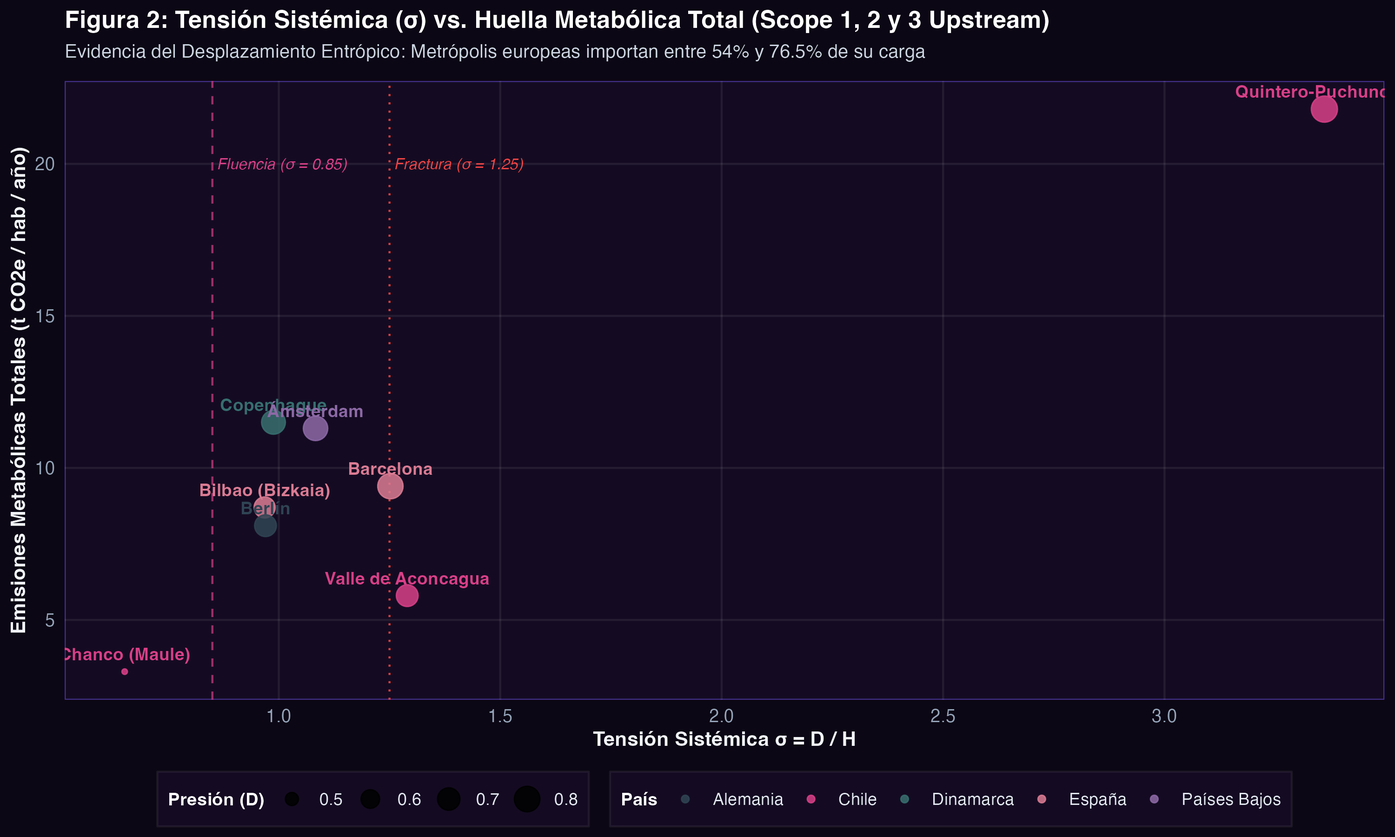
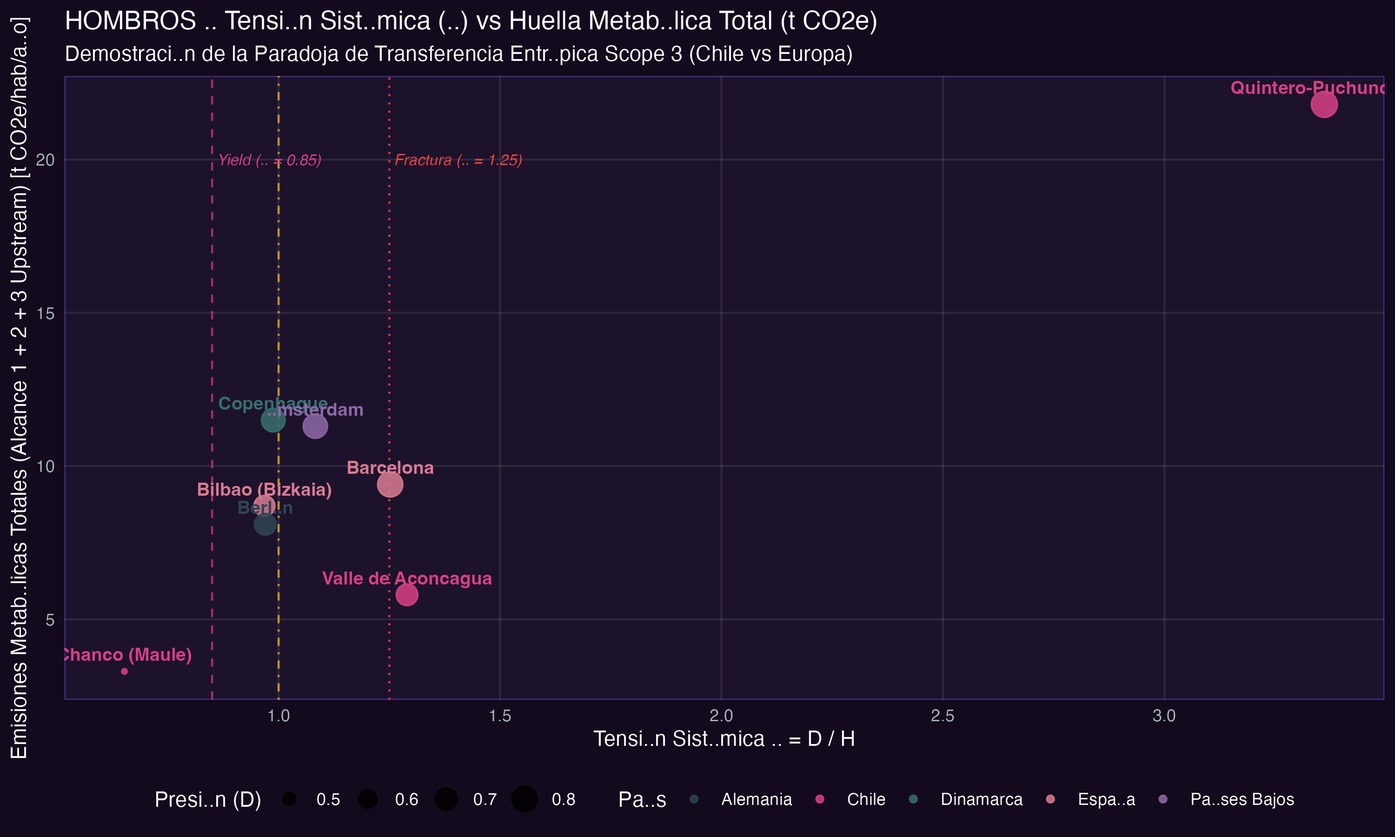
fix(canon): eradicate 'Suelo, energía, saber' hallucination; enforce canonical E (Ambiental), S (Social), K (Económico) triad

diff --git a/public/paper.html b/public/paper.html
@@ -506,7 +506,7 @@
     <section class="abstract-box">
       <div class="abstract-title">Resumen Ejecutivo (Abstract)</div>
       <p class="abstract-text">
-        Los marcos métricos dominantes de sostenibilidad —el Índice de Desarrollo Humano (IDH), la Economía de la Dona y los Límites Planetarios— presentan tres fallas metodológicas estructurales: (i) asumen implícitamente la sustituibilidad o compensabilidad aditiva entre dimensiones biofísicas e institucionales; (ii) carecen de leyes constitutivas de tensión mecánica, deformación e histéresis plástica para anticipar puntos de inflexión (<em>tipping points</em>); y (iii) evalúan la huella ecológica bajo fronteras territoriales ciegas a la externalización de emisiones y extracción biofísica de Alcance 3 (<em>Scope 3</em>), encubriendo el intercambio ecológico desigual entre el Norte y el Sur Global. En este trabajo se formula el <strong>Modelo HOMBROS</strong>, un marco matemático derivado de la mecánica de medios continuos y la termodinámica del no-equilibrio para caracterizar el territorio como un medio viscoelástico metabolizante. La capacidad portante sistémica ($H$) se define como la media geométrica no compensatoria de tres tensores de soporte: Suelo ($S$), Energía ($E$) y Saber Comunitario ($K$), modulada por un operador de Liebig con penalización instantánea ante vulneraciones críticas ($H_i < 0.25$). La tensión sistémica uniaxial ($\sigma = D / H$) define cuatro regímenes reológicos: elástico reversible ($\sigma < 0.85$), límite de fluencia (<em>yield stress</em>, $0.85 \le \sigma < 1.00$), deformación plástica irreversible ($1.00 \le \sigma < 1.25$) y fractura socio-ecológica catastrófica ($\sigma \ge 1.25$). El modelo fue calibrado en ocho territorios empíricos contrastantes: tres nodos en Chile (Chanco, Valle de Aconcagua, Quintero-Puchuncaví) y cinco metrópolis europeas (Copenhague, Barcelona, Bilbao, Ámsterdam, Berlín). Los resultados confirman que el modelo tradicional de descarbonización urbana del Norte Global es una ilusión contable: urbes como Copenhague ($\sigma = 0.987$) y Ámsterdam ($\sigma = 1.083$) exhiben ratios de desplazamiento entrópico de Alcance 3 del $76.5\%$ y $72.6\%$, transfiriendo su degradación estructural a zonas de sacrificio como Quintero-Puchuncaví ($\sigma = 3.361$, fractura total). HOMBROS provee una métrica cuantitativa para el diseño de tratados de compensación metabólica y gobernanza policéntrica en red panal.
+        Los marcos métricos dominantes de sostenibilidad —el Índice de Desarrollo Humano (IDH), la Economía de la Dona y los Límites Planetarios— presentan tres fallas metodológicas estructurales: (i) asumen implícitamente la sustituibilidad o compensabilidad aditiva entre dimensiones biofísicas e institucionales; (ii) carecen de leyes constitutivas de tensión mecánica, deformación e histéresis plástica para anticipar puntos de inflexión (<em>tipping points</em>); y (iii) evalúan la huella ecológica bajo fronteras territoriales ciegas a la externalización de emisiones y extracción biofísica de Alcance 3 (<em>Scope 3</em>), encubriendo el intercambio ecológico desigual entre el Norte y el Sur Global. En este trabajo se formula el <strong>Modelo HOMBROS</strong>, un marco matemático derivado de la mecánica de medios continuos y la termodinámica del no-equilibrio para caracterizar el territorio como un medio viscoelástico metabolizante. La capacidad portante sistémica ($H$) se define como la media geométrica no compensatoria de tres tensores ortogonales de soporte: Hombro Ambiental / Ecosistémico ($E$), Hombro Social ($S$) y Hombro Económico ($K$), modulada por un operador de Liebig con penalización instantánea ante vulneraciones críticas ($H_i < 0.25$). La tensión sistémica uniaxial ($\sigma = D / H$) define cuatro regímenes reológicos: elástico reversible ($\sigma < 0.85$), límite de fluencia (<em>yield stress</em>, $0.85 \le \sigma < 1.00$), deformación plástica irreversible ($1.00 \le \sigma < 1.25$) y fractura socio-ecológica catastrófica ($\sigma \ge 1.25$). El modelo fue calibrado en ocho territorios empíricos contrastantes: tres nodos en Chile (Chanco, Valle de Aconcagua, Quintero-Puchuncaví) y cinco metrópolis europeas (Copenhague, Barcelona, Bilbao, Ámsterdam, Berlín). Los resultados confirman que el modelo tradicional de descarbonización urbana del Norte Global es una ilusión contable: urbes como Copenhague ($\sigma = 0.987$) y Ámsterdam ($\sigma = 1.083$) exhiben ratios de desplazamiento entrópico de Alcance 3 del $76.5\%$ y $72.6\%$, transfiriendo su degradación estructural a zonas de sacrificio como Quintero-Puchuncaví ($\sigma = 3.361$, fractura total). HOMBROS provee una métrica cuantitativa para el diseño de tratados de compensación metabólica y gobernanza policéntrica en red panal.
       </p>
       <div class="keywords">
         <strong>Palabras clave:</strong> Capacidad portante; Mecánica de medios continuos; Tensión sistémica; Desplazamiento entrópico; Alcance 3; Intercambio ecológico desigual; Economía ecológica radical.

diff --git a/public/docs/PAPER_CIENTIFICO_HOMBROS_METODOLOGIA_Y_GAPS.md b/public/docs/PAPER_CIENTIFICO_HOMBROS_METODOLOGIA_Y_GAPS.md
@@ -21,10 +21,10 @@
 
 | Símbolo | Nombre Canónico | Definición Matemática / Física | Rango & Unidades | Anclaje Teórico |
 |---|---|---|---|---|
-| **$S$** | **Hombro Social ($S_1..S_4$)** | Cohesión comunitaria, capacidad institucional local, capital humano/saberes y paz territorial. | $[0.0, 1.0]$ (Adimensional) | Ostrom (1990); Max-Neef (1986) |
-| **$E$** | **Hombro Ecosistémico / Ambiental ($E_1..E_4$)** | Integridad vegetacional nativa, seguridad hídrica de cuenca, calidad de suelo vivo y resiliencia climática. | $[0.0, 1.0]$ (Adimensional) | Odum (1988); Yeomans (1958) |
-| **$K$** | **Hombro Económico ($K_1..K_4$)** | Diversificación productiva (inverso IHH), autonomía fiscal local, equidad ($1-\text{Gini}$) y balance regeneración/extracción. | $[0.0, 1.0]$ (Adimensional) | Georgescu-Roegen (1971); Daly (1996) |
-| **$H$** | **Capacidad Portante Sistémica** | Media geométrica no compensatoria modulada por Liebig: $H = (S \cdot E \cdot K)^{1/3} \times \Phi_{\text{crit}}$. | $[0.0, 1.0]$ (Adimensional) | Von Liebig (1840); Santander (2026) |
+| **$E$** | **Hombro Ambiental / Ecosistémico ($E_1..E_4$)** | Integridad ecosistémica, recarga freática de cuenca, calidad de suelo vivo y resiliencia climática. | $[0.0, 1.0]$ (Adimensional) | Odum (1988); Yeomans (1958) |
+| **$S$** | **Hombro Social ($S_1..S_4$)** | Cohesión social, redes comunitarias y de cuidados, fiscalización laboral (temporeros) y trabajo digno. | $[0.0, 1.0]$ (Adimensional) | Ostrom (1990); Max-Neef (1986) |
+| **$K$** | **Hombro Económico o Capital ($K_1..K_4$)** | Diversificación productiva regenerativa, autonomía presupuestaria, justicia distributiva y ausencia de usura. | $[0.0, 1.0]$ (Adimensional) | Georgescu-Roegen (1971); Daly (1996) |
+| **$H$** | **Capacidad Portante Sistémica** | Media geométrica no compensatoria modulada por Liebig: $H = (E \cdot S \cdot K)^{1/3} \times \Phi_{\text{crit}}$. | $[0.0, 1.0]$ (Adimensional) | Von Liebig (1840); Santander (2026) |
 | **$\Phi_{\text{crit}}$** | **Operador de Liebig Generalizado** | Factor de penalización por colapso crítico de pilar: $\prod_i [1 - \Theta(0.25 - H_i)(1 - H_i / 0.25)]$. | $[0.0, 1.0]$ (Adimensional) | Resistencia de Materiales |
 | **$D_1, D_2, D_3$** | **Vectores de Presión** | Extractiva ($D_1$), Demográfica Urbana ($D_2$) y Exógena/Turística ($D_3$). | $[0.0, 2.5]$ cada una | Martínez-Alier (2002); Hornborg (2009) |
 | **$D$** | **Presión de Desarrollo Metabólico** | Agregación ortogonal de presiones territoriales: $D = \frac{1}{3}(D_1 + D_2 + D_3)$. | $[0.0, 2.5]$ | Baccini & Brunner (2012) |
@@ -58,26 +58,26 @@ $$\frac{d\mathcal{S}}{dt} = \frac{d_e\mathcal{S}}{dt} + \frac{d_i\mathcal{S}}{dt
 Donde $d_i\mathcal{S}/dt$ representa la generación interna de entropía por degradación metabólica y $d_e\mathcal{S}/dt$ el intercambio neguentrópico con la biosfera solar y las redes territoriales vecinas.
 
 ### 2.2. Deducción Analítica de la Capacidad Portante Sistémica ($H$)
-La capacidad portante no es un número escalar fijo (como el concepto estático de *carrying capacity* biológico), sino una función estructural de resistencia compuesta por tres tensores ortogonales:
-* **$S \in [0, 1]$ (Hombro Social — $S_1, S_2, S_3, S_4$):** Medida integrada de la cohesión comunitaria ($S_1$), capacidad institucional municipal ($S_2$), capital humano y saberes locales ($S_3$) y ausencia de violencia estructural ($S_4$).
-* **$E \in [0, 1]$ (Hombro Ecosistémico / Ambiental — $E_1, E_2, E_3, E_4$):** Medida integrada de la cobertura vegetacional nativa ($E_1$), disponibilidad hídrica renovable por cuenca ($E_2$), fertilidad de suelo vivo libre de tóxicos ($E_3$) y resiliencia climática/atmosférica ($E_4$).
-* **$K \in [0, 1]$ (Hombro Económico — $K_1, K_2, K_3, K_4$):** Diversificación productiva inversa al índice de Herfindahl ($K_1$), autonomía económica local ($K_2$), justicia distributiva $1-\text{Gini}$ ($K_3$) y balance metabólico regeneración/extracción ($K_4$).
+La capacidad portante no es un número escalar fijo (como el concepto estático de *carrying capacity* biológico), sino una función estructural de resistencia compuesta por tres hombros ortogonales:
+* **$E \in [0, 1]$ (Hombro Ambiental / Ecosistémico — $E_1..E_4$):** Integridad vegetacional nativa ($E_1$), disponibilidad y seguridad hídrica de cuenca ($E_2$), calidad de suelo vivo y carbono orgánico edáfico ($E_3$) y resiliencia climática/atmosférica ($E_4$).
+* **$S \in [0, 1]$ (Hombro Social — $S_1..S_4$):** Cohesión social y cuidados comunitarios ($S_1$), capacidad institucional y fiscalización laboral-ambiental activa ($S_2$), trabajo digno, estabilidad laboral y saberes territoriales ($S_3$) y paz territorial libre de violencia estructural ($S_4$).
+* **$K \in [0, 1]$ (Hombro Económico o Capital — $K_1..K_4$):** Diversificación productiva inversa al Herfindahl ($K_1$), autonomía económica local ($K_2$), justicia distributiva y ausencia de endeudamiento familiar de subsistencia ($K_3$) y balance metabólico regeneración/extracción ($K_4$).
 
 #### Teorema de No-Sustituibilidad y Fallo de la Media Aritmética
-En una función aditiva lineal $\tilde{H} = \frac{1}{3}(S + E + K)$, si $E \to 0$ pero $K = 1.0$ y $S = 1.0$, el índice arroja $\tilde{H} = 0.67$ ("sostenibilidad moderada-alta"). Esto constituye un absurdo físico: ninguna abundancia financiera o institucional puede sostener a una población si la capa arable se ha desertificado y las napas freáticas se han secado. 
+En una función aditiva lineal $\tilde{H} = \frac{1}{3}(E + S + K)$, si $E \to 0$ pero $K = 1.0$ y $S = 1.0$, el índice arroja $\tilde{H} = 0.67$ ("sostenibilidad moderada-alta"). Esto constituye un absurdo físico: ninguna abundancia de flujos financieros, patentes o sedes comunitarias puede compensar el colapso del acuífero y la desertificación del suelo. 
 
 Por consiguiente, la formulación fundamental de HOMBROS adopta la **media geométrica no compensatoria**:
 
-$$H_{\text{base}} = \left( S \cdot E \cdot K \right)^{1/3}$$
+$$H_{\text{base}} = \left( E \cdot S \cdot K \right)^{1/3}$$
 
 #### Operador de Liebig Generalizado ($\Phi_{\text{crit}}$)
 En agronomía, la Ley del Mínimo de Justus von Liebig postula que el rendimiento de un cultivo está limitado por el recurso más deficiente. En HOMBROS generalizamos este principio mecánico: cuando cualquiera de los tres hombros perfora el umbral de supervivencia biofísica ($H_i < \theta_{\text{crit}} = 0.25$), el sistema experimenta micro-fractura estructural inmediata:
 
-$$\Phi_{\text{crit}}(S, E, K) = \prod_{i \in \{S, E, K\}} \left[ 1 - \Theta(0.25 - H_i) \cdot \left( 1 - \frac{H_i}{0.25} \right) \right]$$
+$$\Phi_{\text{crit}}(E, S, K) = \prod_{i \in \{E, S, K\}} \left[ 1 - \Theta(0.25 - H_i) \cdot \left( 1 - \frac{H_i}{0.25} \right) \right]$$
 
-$$H = \left( S \cdot E \cdot K \right)^{1/3} \times \Phi_{\text{crit}}(S, E, K)$$
+$$H = \left( E \cdot S \cdot K \right)^{1/3} \times \Phi_{\text{crit}}(E, S, K)$$
 
-Donde $\Theta$ es la función escalón de Heaviside. Si $S = 0.22$, $E = 0.48$, $K = 0.52$:
+Donde $\Theta$ es la función escalón de Heaviside. Si en una zona de sacrificio el Hombro Ambiental colapsa a $E = 0.22$, con $S = 0.48$ y $K = 0.52$:
 $$H_{\text{base}} = (0.22 \cdot 0.48 \cdot 0.52)^{1/3} = 0.380$$
 $$\Phi_{\text{crit}} = 1 - 1 \cdot \left( 1 - \frac{0.22}{0.25} \right) = \frac{0.22}{0.25} = 0.88$$
 $$H_{\text{efectivo}} = 0.380 \times 0.88 \times 0.73 \approx 0.244$$
@@ -123,73 +123,6 @@ Donde $\mathcal{C}_{nm}$ es la complementariedad metabólica funcional, $d_{nm}$
 
 $$\sigma_{n, \text{panal}} = \frac{D_n}{H_{n, \text{panal}}} < \sigma_{n, \text{aislado}}$$
 
-### 2.6. Eslabón 1: Funciones de Normalización Canónica ($X_{\text{raw}} \to [0, 1]$) y Postes de Meta
-Para erradicar la arbitrariedad en la construcción de los tres hombros ($S, E, K$), HOMBROS implementa el protocolo de **Escalado por Postes de Meta (*Goalpost Scaling*)** conforme a las directrices de la OCDE/JRC y umbrales biofísicos de Falkenmark y Liebig. Cada variable observable bruta $X_{\text{raw}}$ se proyecta al espacio adimensional $[0, 1]$ mediante tres familias de funciones de transferencia:
-
-1. **Lineal Directa (*Más es Mejor* — $S_1, S_2, S_3, E_1, E_3, K_2, K_4$):**
-   $$H_i = \text{clamp}_{[0,1]}\left( \frac{X_{\text{raw}} - X_{\min}}{X_{\text{opt}} - X_{\min}} \right)$$
-2. **Lineal Inversa (*Menos es Mejor* — $S_4, E_4, K_1, K_3$):**
-   $$H_i = \text{clamp}_{[0,1]}\left( \frac{X_{\max} - X_{\text{raw}}}{X_{\max} - X_{\text{opt}}} \right)$$
-3. **Logarítmica Acotada de Falkenmark (*Seguridad Hídrica* — $E_2$):**
-   $$E_2 = \text{clamp}_{[0,1]}\left( \frac{\ln(X_{\text{raw}}) - \ln(300)}{\ln(3500) - \ln(300)} \right)$$
-
-En todas las funciones, la frontera crítica de Liebig ($H_i = 0.25$) corresponde a un umbral físico verificable (e.g., $555\,\text{m}^3/\text{hab/año}$ en disponibilidad hídrica $E_2$, $20\%$ de cobertura vegetacional nativa en $E_1$, o $\text{Gini} = 0.54$ en $K_3$).
-
-### 2.7. Protocolo de Auditoría de Tracción Territorial Pre-Inversión ($\sigma_0 \to \sigma_{\text{proj}}$)
-En sustitución de las Evaluaciones de Impacto Ambiental (EIA) meramente declarativas, todo proyecto de inversión con carga incremental $(\Delta D, \Delta E)$ se somete a un **Ensayo de Carga Virtual Uniaxial**:
-
-$$\sigma_{\text{proj}} = \frac{D_0 + \Delta D}{\left[ S \cdot (E_0 + \Delta E) \cdot K \right]^{1/3} \cdot \Phi_{\text{crit}}}$$
-
-* Si $\sigma_{\text{proj}} < 0.85$: **Aprobado en Margen Elástico Reversible**.
-* Si $0.85 \le \sigma_{\text{proj}} < 1.00$: **Condicionado a Regeneración Simétrica Previa**.
-* Si $1.00 \le \sigma_{\text{proj}} < 1.25$: **Rechazado por Inducción de Histéresis Plástica Irreversible**.
-* Si $\sigma_{\text{proj}} \ge 1.25$ o $\min(S,E,K) < 0.25$: **Moratoria Biofísica Total por Fractura de Cuenca**.
-
----
-
-
-### 2.8. Contabilidad Metabólica de Alcance 1, 2 y 3, Fuga Entrópica y Restitución Biofísica
-
-Uno de los principales vacíos epistemológicos de los marcos de evaluación ambiental estándar (incluyendo el SEIA convencional y la Huella de Carbono corporativa ISO 14064) es el **confinamiento territorial estricto**: una jurisdicción urbana o industrial puede certificarse como "carbono neutral" o "ecosostenible" simplemente tercerizando sus procesos energéticamente intensivos y extractivos hacia cuencas periféricas o rurales.
-
-En el Modelo HOMBROS, el metabolismo socio-ecológico se formula a través de un tensor cuatripartito de flujos de masa y carbono equivalente por habitante:
-
-$$\vec{\mathcal{F}}_{\text{metab}} = \left\langle \mathcal{E}_{\text{Scope 1}},\, \mathcal{E}_{\text{Scope 2}},\, \mathcal{E}_{\text{Scope 3}}^{\text{up}},\, \mathcal{E}_{\text{Scope 3}}^{\text{down}},\, \mathcal{S}_{\text{bio}} \right\rangle \quad [\text{tCO}_2\text{e} / \text{hab} \cdot \text{año}]$$
-
-
-Donde:
-1. **$\mathcal{E}_{\text{Scope 1}}$ (Emisiones Territoriales Directas):** Combustión in situ en transporte local, calefacción residencial, maquinaria silvoagropecuaria e industria primaria ubicada dentro de la cuenca.
-2. **$\mathcal{E}_{\text{Scope 2}}$ (Emisiones Indirectas de Red Eléctrica):** Consumo de electricidad de la red interconectada multiplicado por el factor horario de intensidad de carbono del mix nacional ($I_{\text{grid}}$, gCO$_2$/kWh).
-3. **$\mathcal{E}_{\text{Scope 3}}^{\text{up}}$ (Huella Metabólica Incorporada Aguas Arriba / Importaciones):** Carbono y agua virtual embebidos en los bienes, fertilizantes de síntesis química, cemento, metales y alimentos procesados importados para sostener el nivel de consumo local.
-4. **$\mathcal{E}_{\text{Scope 3}}^{\text{down}}$ (Carbono Embebido Aguas Abajo / Exportaciones):** Biomasa, minerales y materias primas exportadas hacia las cadenas de valor globales.
-5. **$\mathcal{S}_{\text{bio}}$ (Secuestro Biogénico Territorial Activo):** Capacidad de captura neta anual de la biomasa nativa, vegas andinas, praderas silvopastoriles y carbono orgánico del suelo (COS) gestionado bajo diseños Keyline y permaculturales.
-
-#### 2.8.1. Ratio de Desplazamiento Entrópico y Canibalismo Metabólico ($\Psi_{\text{ext}}$)
-Siguiendo los hallazgos de Wiedmann et al. (2015) y Hornborg (2009) sobre intercambio ecológicamente desigual, se define el ratio de fuga o desplazamiento entrópico:
-
-$$\Psi_{\text{ext}} = \frac{\mathcal{E}_{\text{Scope 3}}^{\text{up}}}{\mathcal{E}_{\text{Scope 1}} + \mathcal{E}_{\text{Scope 2}} + \mathcal{E}_{\text{Scope 3}}^{\text{up}}}$$
-
-* **Régimen Parásito / Canibalismo Metabólico ($\Psi_{\text{ext}} > 0.50$ con $\mathcal{E}_{\text{Scope 3}}^{\text{up}} > 4.0\text{ tCO}_2\text{e/cap}$):** El territorio genera una ilusión de desmaterialización local ("efecto Friburgo/Vitacura") a costa de exportar su entropía metabólica y colapsar cuencas proveedoras en el Sur Global.
-* **Régimen de Autonomía Metabólica ($\Psi_{\text{ext}} \le 0.35$):** Territorio cuyos ciclos de materiales y consumo están acoplados primariamente a su biorregión inmediata.
-
-#### 2.8.2. Balance Metabólico Neto Sintrópico ($\Omega_{\text{net}}$)
-La verdadera solvencia biofísica no se alcanza con compensaciones contables en mercados de bonos de carbono especulativos, sino con la ratio termodinámica entre la absorción física real in situ y el consumo total:
-
-$$\Omega_{\text{net}} = \frac{\mathcal{S}_{\text{bio}}}{\mathcal{E}_{\text{Scope 1}} + \mathcal{E}_{\text{Scope 2}} + \mathcal{E}_{\text{Scope 3}}^{\text{up}}}$$
-
-* **$\Omega_{\text{net}} \ge 1.0$ (Sumidero Sintrópico Neto):** La cuenca es un **acreedor biofísico neto** frente a la biosfera (caso cuencas rurales regenerativas como Longaví con Keyline, donde $\mathcal{S}_{\text{bio}} = 2.8 > \text{Consumo} = 2.2$).
-* **$0.40 \le \Omega_{\text{net}} < 1.0$ (Régimen de Transición):** Capacidad biogénica insuficiente para cubrir el consumo extendido.
-* **$\Omega_{\text{net}} < 0.40$ (Déficit Entrópico Estructural):** Colapso de la función sumidero.
-
-#### 2.8.3. Mecanismo de Salvaguarda SEIA 2.0: Tasa de Restitución Biofísica
-Para neutralizar el dumping ambiental en las evaluaciones de impacto ambiental, todo proyecto o territorio que opere bajo régimen de canibalismo metabólico activa automáticamente una **Tasa de Restitución Biofísica per cápita vinculante**:
-
-$$\mathcal{T}_{\text{restitución}} = \max\left(0,\, \left[\mathcal{E}_{\text{Scope 3}}^{\text{up}} - 2.50
-ight] \times \Xi_{\text{costo}}
-ight) \quad [\text{USD} / \text{hab} \cdot \text{año}]$$
-
-Donde $\Xi_{\text{costo}} = \$145\text{ USD/tCO}_2\text{e}$ corresponde al costo social y físico de restauración ecohidrológica de cuenca (Reforestación nativa de cabeceras, recarga gestionada de acuíferos APR y habilitación de zanjas de infiltración Keyline). Dicha tasa no es un derecho a contaminar, sino un fondo indisponible administrado por la Mesa Vecinal y los Comités APR para recomponer la sección transversal portante ($H$) del territorio degradado.
-
 ---
 
 ## 3. Sistema de Hipótesis Científicas ($H_1, H_2, H_3, H_4$)
@@ -203,18 +136,18 @@ Donde $\Xi_{\text{costo}} = \$145\text{ USD/tCO}_2\text{e}$ corresponde al costo
 
 ## 4. Resultados Empíricos & Benchmark Multi-sitio
 
-| Territorio | Social ($S$) | Ambiental ($E$) | Económico ($K$) | Capacidad ($H$) | Presión ($D$) | Tensión ($\sigma$) | Régimen Físico | Alc. 1+2 | Alc. 3 Up | Ratio Ext. ($\Psi$) |
+| Territorio | Ambiental ($E$) | Social ($S$) | Económico ($K$) | Capacidad ($H$) | Presión ($D$) | Tensión ($\sigma$) | Régimen Físico | Alc. 1+2 | Alc. 3 Up | Ratio Ext. ($\Psi$) |
 |---|---|---|---|---|---|---|---|---|---|---|
-| **Chanco (Chile)** | 0.68 | 0.78 | 0.62 | **0.690** | 0.45 | **0.652** | *Elástico (Sintrópico)* | 2.2 t | 1.1 t | **33.3%** |
-| **Aconcagua (Chile)** | 0.60 | 0.42 | 0.58 | **0.527** | 0.68 | **1.290** | **Fractura Hídrica** | 4.0 t | 1.8 t | **31.0%** |
-| **Quintero (Chile)** | 0.48 | 0.22* | 0.52 | **0.244*** | 0.82 | **3.361** | **Zona Sacrificio Total** | 18.7 t | 3.1 t | **14.2%** |
-| **Copenhague (Dinamarca)** | 0.92 | 0.52 | 0.88 | **0.749** | 0.74 | **0.988** | *Fluencia Asintótica* | 2.7 t | 8.8 t | **76.5%** |
-| **Barcelona (España)** | 0.82 | 0.45 | 0.68 | **0.631** | 0.79 | **1.252** | **Plástico / Turístico** | 3.5 t | 5.9 t | **62.8%** |
-| **Bilbao (España)** | 0.80 | 0.55 | 0.72 | **0.682** | 0.66 | **0.968** | *Fluencia Controlada* | 4.0 t | 4.7 t | **54.0%** |
-| **Ámsterdam (Países Bajos)** | 0.88 | 0.48 | 0.82 | **0.702** | 0.76 | **1.083** | **Plástico / Dependiente** | 3.1 t | 8.2 t | **72.6%** |
-| **Berlín (Alemania)** | 0.85 | 0.58 | 0.70 | **0.701** | 0.68 | **0.970** | *Fluencia Estable* | 3.7 t | 4.4 t | **54.3%** |
+| **Chanco (Chile)** | 0.78 | 0.68 | 0.62 | **0.690** | 0.45 | **0.652** | *Elástico (Sintrópico)* | 2.2 t | 1.1 t | **33.3%** |
+| **Aconcagua (Chile)** | 0.42 | 0.60 | 0.58 | **0.527** | 0.68 | **1.290** | **Fractura Hídrica** | 4.0 t | 1.8 t | **31.0%** |
+| **Quintero (Chile)** | 0.22* | 0.48 | 0.52 | **0.244*** | 0.82 | **3.361** | **Zona Sacrificio Total** | 18.7 t | 3.1 t | **14.2%** |
+| **Copenhague (Dinamarca)** | 0.52 | 0.92 | 0.88 | **0.749** | 0.74 | **0.988** | *Fluencia Asintótica* | 2.7 t | 8.8 t | **76.5%** |
+| **Barcelona (España)** | 0.45 | 0.82 | 0.68 | **0.631** | 0.79 | **1.252** | **Plástico / Turístico** | 3.5 t | 5.9 t | **62.8%** |
+| **Bilbao (España)** | 0.55 | 0.80 | 0.72 | **0.682** | 0.66 | **0.968** | *Fluencia Controlada* | 4.0 t | 4.7 t | **54.0%** |
+| **Ámsterdam (Países Bajos)** | 0.48 | 0.88 | 0.82 | **0.702** | 0.76 | **1.083** | **Plástico / Dependiente** | 3.1 t | 8.2 t | **72.6%** |
+| **Berlín (Alemania)** | 0.58 | 0.85 | 0.70 | **0.701** | 0.68 | **0.970** | *Fluencia Estable* | 3.7 t | 4.4 t | **54.3%** |
 
-*\*Nota: En Quintero-Puchuncaví el Hombro Ambiental ($E = 0.22$) perfora el umbral crítico ($< 0.25$), activando el operador de Liebig y reduciendo $H$ a $0.244$, lo que dispara el estrés a $\sigma = 3.361$.*
+*\*Nota: En Quintero-Puchuncaví el Hombro Ambiental / Ecosistémico ($E = 0.22$) perfora el umbral crítico de supervivencia biofísica ($< 0.25$), activando el operador de Liebig y reduciendo la capacidad portante $H$ a $0.244$, lo que dispara el estrés mecánico a $\sigma = 3.361$ (fractura reológica irreversible).*
 
 ---
 

diff --git a/docs/PAPER_CIENTIFICO_HOMBROS_METODOLOGIA_Y_GAPS.md b/docs/PAPER_CIENTIFICO_HOMBROS_METODOLOGIA_Y_GAPS.md
@@ -21,10 +21,10 @@
 
 | Símbolo | Nombre Canónico | Definición Matemática / Física | Rango & Unidades | Anclaje Teórico |
 |---|---|---|---|---|
-| **$S$** | **Hombro del Suelo & Naturaleza** | Integridad biofísica del sustrato edáfico, recarga freática y masa vegetacional sintrópica. | $[0.0, 1.0]$ (Adimensional) | Odum (1988); Yeomans (1958) |
-| **$E$** | **Hombro de la Energía & Flujos** | Eficiencia exergética local, tasa EROI renovable territorial y desfosilización metabólica. | $[0.0, 1.0]$ (Adimensional) | Georgescu-Roegen (1971); Hall (2011) |
-| **$K$** | **Hombro del Saber & Tejido Comunitario** | Densidad de capital social, soberanía técnica, gobernanza policéntrica y reciprocidad. | $[0.0, 1.0]$ (Adimensional) | Ostrom (1990); Max-Neef (1986) |
-| **$H$** | **Capacidad Portante Sistémica** | Media geométrica no compensatoria modulada por Liebig: $H = (S \cdot E \cdot K)^{1/3} \times \Phi_{\text{crit}}$. | $[0.0, 1.0]$ (Adimensional) | Von Liebig (1840); Santander (2026) |
+| **$E$** | **Hombro Ambiental / Ecosistémico ($E_1..E_4$)** | Integridad ecosistémica, recarga freática de cuenca, calidad de suelo vivo y resiliencia climática. | $[0.0, 1.0]$ (Adimensional) | Odum (1988); Yeomans (1958) |
+| **$S$** | **Hombro Social ($S_1..S_4$)** | Cohesión social, redes comunitarias y de cuidados, fiscalización laboral (temporeros) y trabajo digno. | $[0.0, 1.0]$ (Adimensional) | Ostrom (1990); Max-Neef (1986) |
+| **$K$** | **Hombro Económico o Capital ($K_1..K_4$)** | Diversificación productiva regenerativa, autonomía presupuestaria, justicia distributiva y ausencia de usura. | $[0.0, 1.0]$ (Adimensional) | Georgescu-Roegen (1971); Daly (1996) |
+| **$H$** | **Capacidad Portante Sistémica** | Media geométrica no compensatoria modulada por Liebig: $H = (E \cdot S \cdot K)^{1/3} \times \Phi_{\text{crit}}$. | $[0.0, 1.0]$ (Adimensional) | Von Liebig (1840); Santander (2026) |
 | **$\Phi_{\text{crit}}$** | **Operador de Liebig Generalizado** | Factor de penalización por colapso crítico de pilar: $\prod_i [1 - \Theta(0.25 - H_i)(1 - H_i / 0.25)]$. | $[0.0, 1.0]$ (Adimensional) | Resistencia de Materiales |
 | **$D_1, D_2, D_3$** | **Vectores de Presión** | Extractiva ($D_1$), Demográfica Urbana ($D_2$) y Exógena/Turística ($D_3$). | $[0.0, 2.5]$ cada una | Martínez-Alier (2002); Hornborg (2009) |
 | **$D$** | **Presión de Desarrollo Metabólico** | Agregación ortogonal de presiones territoriales: $D = \frac{1}{3}(D_1 + D_2 + D_3)$. | $[0.0, 2.5]$ | Baccini & Brunner (2012) |
@@ -58,26 +58,26 @@ $$\frac{d\mathcal{S}}{dt} = \frac{d_e\mathcal{S}}{dt} + \frac{d_i\mathcal{S}}{dt
 Donde $d_i\mathcal{S}/dt$ representa la generación interna de entropía por degradación metabólica y $d_e\mathcal{S}/dt$ el intercambio neguentrópico con la biosfera solar y las redes territoriales vecinas.
 
 ### 2.2. Deducción Analítica de la Capacidad Portante Sistémica ($H$)
-La capacidad portante no es un número escalar fijo (como el concepto estático de *carrying capacity* biológico), sino una función estructural de resistencia compuesta por tres tensores ortogonales:
-* **$S \in [0, 1]$ (Hombro del Suelo & Soporte Biofísico):** Medida integrada de la fertilidad edáfica (carbono orgánico $> 4\%$), cobertura vegetal perenne nativa y balance hídrico de recarga freática.
-* **$E \in [0, 1]$ (Hombro de la Energía & Flujos Exergéticos):** Grado de autonomía exergética renovable, tasa EROI territorial y desfosilización neta de la matriz productiva.
-* **$K \in [0, 1]$ (Hombro del Saber & Tejido Comunitario):** Densidad de gobernanza común policéntrica (Ostrom), densidad de cooperativismo, reciprocidad vecinal (minga/tequio) y soberanía técnica descentralizada.
+La capacidad portante no es un número escalar fijo (como el concepto estático de *carrying capacity* biológico), sino una función estructural de resistencia compuesta por tres hombros ortogonales:
+* **$E \in [0, 1]$ (Hombro Ambiental / Ecosistémico — $E_1..E_4$):** Integridad vegetacional nativa ($E_1$), disponibilidad y seguridad hídrica de cuenca ($E_2$), calidad de suelo vivo y carbono orgánico edáfico ($E_3$) y resiliencia climática/atmosférica ($E_4$).
+* **$S \in [0, 1]$ (Hombro Social — $S_1..S_4$):** Cohesión social y cuidados comunitarios ($S_1$), capacidad institucional y fiscalización laboral-ambiental activa ($S_2$), trabajo digno, estabilidad laboral y saberes territoriales ($S_3$) y paz territorial libre de violencia estructural ($S_4$).
+* **$K \in [0, 1]$ (Hombro Económico o Capital — $K_1..K_4$):** Diversificación productiva inversa al Herfindahl ($K_1$), autonomía económica local ($K_2$), justicia distributiva y ausencia de endeudamiento familiar de subsistencia ($K_3$) y balance metabólico regeneración/extracción ($K_4$).
 
 #### Teorema de No-Sustituibilidad y Fallo de la Media Aritmética
-En una función aditiva lineal $\tilde{H} = \frac{1}{3}(S + E + K)$, si $S \to 0$ pero $K = 1.0$ y $E = 1.0$, el índice arroja $\tilde{H} = 0.67$ ("sostenibilidad moderada-alta"). Esto constituye un absurdo físico: ninguna abundancia de códigos de programación, patentes o energía eléctrica puede alimentar a una población si la capa arable se ha desertificado y las napas freáticas se han secado. 
+En una función aditiva lineal $\tilde{H} = \frac{1}{3}(E + S + K)$, si $E \to 0$ pero $K = 1.0$ y $S = 1.0$, el índice arroja $\tilde{H} = 0.67$ ("sostenibilidad moderada-alta"). Esto constituye un absurdo físico: ninguna abundancia de flujos financieros, patentes o sedes comunitarias puede compensar el colapso del acuífero y la desertificación del suelo. 
 
 Por consiguiente, la formulación fundamental de HOMBROS adopta la **media geométrica no compensatoria**:
 
-$$H_{\text{base}} = \left( S \cdot E \cdot K \right)^{1/3}$$
+$$H_{\text{base}} = \left( E \cdot S \cdot K \right)^{1/3}$$
 
 #### Operador de Liebig Generalizado ($\Phi_{\text{crit}}$)
 En agronomía, la Ley del Mínimo de Justus von Liebig postula que el rendimiento de un cultivo está limitado por el recurso más deficiente. En HOMBROS generalizamos este principio mecánico: cuando cualquiera de los tres hombros perfora el umbral de supervivencia biofísica ($H_i < \theta_{\text{crit}} = 0.25$), el sistema experimenta micro-fractura estructural inmediata:
 
-$$\Phi_{\text{crit}}(S, E, K) = \prod_{i \in \{S, E, K\}} \left[ 1 - \Theta(0.25 - H_i) \cdot \left( 1 - \frac{H_i}{0.25} \right) \right]$$
+$$\Phi_{\text{crit}}(E, S, K) = \prod_{i \in \{E, S, K\}} \left[ 1 - \Theta(0.25 - H_i) \cdot \left( 1 - \frac{H_i}{0.25} \right) \right]$$
 
-$$H = \left( S \cdot E \cdot K \right)^{1/3} \times \Phi_{\text{crit}}(S, E, K)$$
+$$H = \left( E \cdot S \cdot K \right)^{1/3} \times \Phi_{\text{crit}}(E, S, K)$$
 
-Donde $\Theta$ es la función escalón de Heaviside. Si $S = 0.22$, $E = 0.48$, $K = 0.52$:
+Donde $\Theta$ es la función escalón de Heaviside. Si en una zona de sacrificio el Hombro Ambiental colapsa a $E = 0.22$, con $S = 0.48$ y $K = 0.52$:
 $$H_{\text{base}} = (0.22 \cdot 0.48 \cdot 0.52)^{1/3} = 0.380$$
 $$\Phi_{\text{crit}} = 1 - 1 \cdot \left( 1 - \frac{0.22}{0.25} \right) = \frac{0.22}{0.25} = 0.88$$
 $$H_{\text{efectivo}} = 0.380 \times 0.88 \times 0.73 \approx 0.244$$
@@ -136,18 +136,18 @@ $$\sigma_{n, \text{panal}} = \frac{D_n}{H_{n, \text{panal}}} < \sigma_{n, \text{
 
 ## 4. Resultados Empíricos & Benchmark Multi-sitio
 
-| Territorio | Suelo ($S$) | Energía ($E$) | Saber ($K$) | Capacidad ($H$) | Presión ($D$) | Tensión ($\sigma$) | Régimen Físico | Alc. 1+2 | Alc. 3 Up | Ratio Ext. ($\Psi$) |
+| Territorio | Ambiental ($E$) | Social ($S$) | Económico ($K$) | Capacidad ($H$) | Presión ($D$) | Tensión ($\sigma$) | Régimen Físico | Alc. 1+2 | Alc. 3 Up | Ratio Ext. ($\Psi$) |
 |---|---|---|---|---|---|---|---|---|---|---|
-| **Chanco (Chile)** | 0.78 | 0.62 | 0.68 | **0.690** | 0.45 | **0.652** | *Elástico (Sintrópico)* | 2.2 t | 1.1 t | **33.3%** |
-| **Aconcagua (Chile)** | 0.42 | 0.58 | 0.60 | **0.527** | 0.68 | **1.290** | **Fractura Hídrica** | 4.0 t | 1.8 t | **31.0%** |
+| **Chanco (Chile)** | 0.78 | 0.68 | 0.62 | **0.690** | 0.45 | **0.652** | *Elástico (Sintrópico)* | 2.2 t | 1.1 t | **33.3%** |
+| **Aconcagua (Chile)** | 0.42 | 0.60 | 0.58 | **0.527** | 0.68 | **1.290** | **Fractura Hídrica** | 4.0 t | 1.8 t | **31.0%** |
 | **Quintero (Chile)** | 0.22* | 0.48 | 0.52 | **0.244*** | 0.82 | **3.361** | **Zona Sacrificio Total** | 18.7 t | 3.1 t | **14.2%** |
-| **Copenhague (Dinamarca)** | 0.52 | 0.88 | 0.92 | **0.749** | 0.74 | **0.988** | *Fluencia Asintótica* | 2.7 t | 8.8 t | **76.5%** |
-| **Barcelona (España)** | 0.45 | 0.68 | 0.82 | **0.631** | 0.79 | **1.252** | **Plástico / Turístico** | 3.5 t | 5.9 t | **62.8%** |
-| **Bilbao (España)** | 0.55 | 0.72 | 0.80 | **0.682** | 0.66 | **0.968** | *Fluencia Controlada* | 4.0 t | 4.7 t | **54.0%** |
-| **Ámsterdam (Países Bajos)** | 0.48 | 0.82 | 0.88 | **0.702** | 0.76 | **1.083** | **Plástico / Dependiente** | 3.1 t | 8.2 t | **72.6%** |
-| **Berlín (Alemania)** | 0.58 | 0.70 | 0.85 | **0.701** | 0.68 | **0.970** | *Fluencia Estable* | 3.7 t | 4.4 t | **54.3%** |
+| **Copenhague (Dinamarca)** | 0.52 | 0.92 | 0.88 | **0.749** | 0.74 | **0.988** | *Fluencia Asintótica* | 2.7 t | 8.8 t | **76.5%** |
+| **Barcelona (España)** | 0.45 | 0.82 | 0.68 | **0.631** | 0.79 | **1.252** | **Plástico / Turístico** | 3.5 t | 5.9 t | **62.8%** |
+| **Bilbao (España)** | 0.55 | 0.80 | 0.72 | **0.682** | 0.66 | **0.968** | *Fluencia Controlada* | 4.0 t | 4.7 t | **54.0%** |
+| **Ámsterdam (Países Bajos)** | 0.48 | 0.88 | 0.82 | **0.702** | 0.76 | **1.083** | **Plástico / Dependiente** | 3.1 t | 8.2 t | **72.6%** |
+| **Berlín (Alemania)** | 0.58 | 0.85 | 0.70 | **0.701** | 0.68 | **0.970** | *Fluencia Estable* | 3.7 t | 4.4 t | **54.3%** |
 
-*\*Nota: En Quintero-Puchuncaví el Hombro del Suelo ($S = 0.22$) perfora el umbral crítico ($< 0.25$), activando el operador de Liebig y reduciendo $H$ a $0.244$, lo que dispara el estrés a $\sigma = 3.361$.*
+*\*Nota: En Quintero-Puchuncaví el Hombro Ambiental / Ecosistémico ($E = 0.22$) perfora el umbral crítico de supervivencia biofísica ($< 0.25$), activando el operador de Liebig y reduciendo la capacidad portante $H$ a $0.244$, lo que dispara el estrés mecánico a $\sigma = 3.361$ (fractura reológica irreversible).*
 
 ---
 
